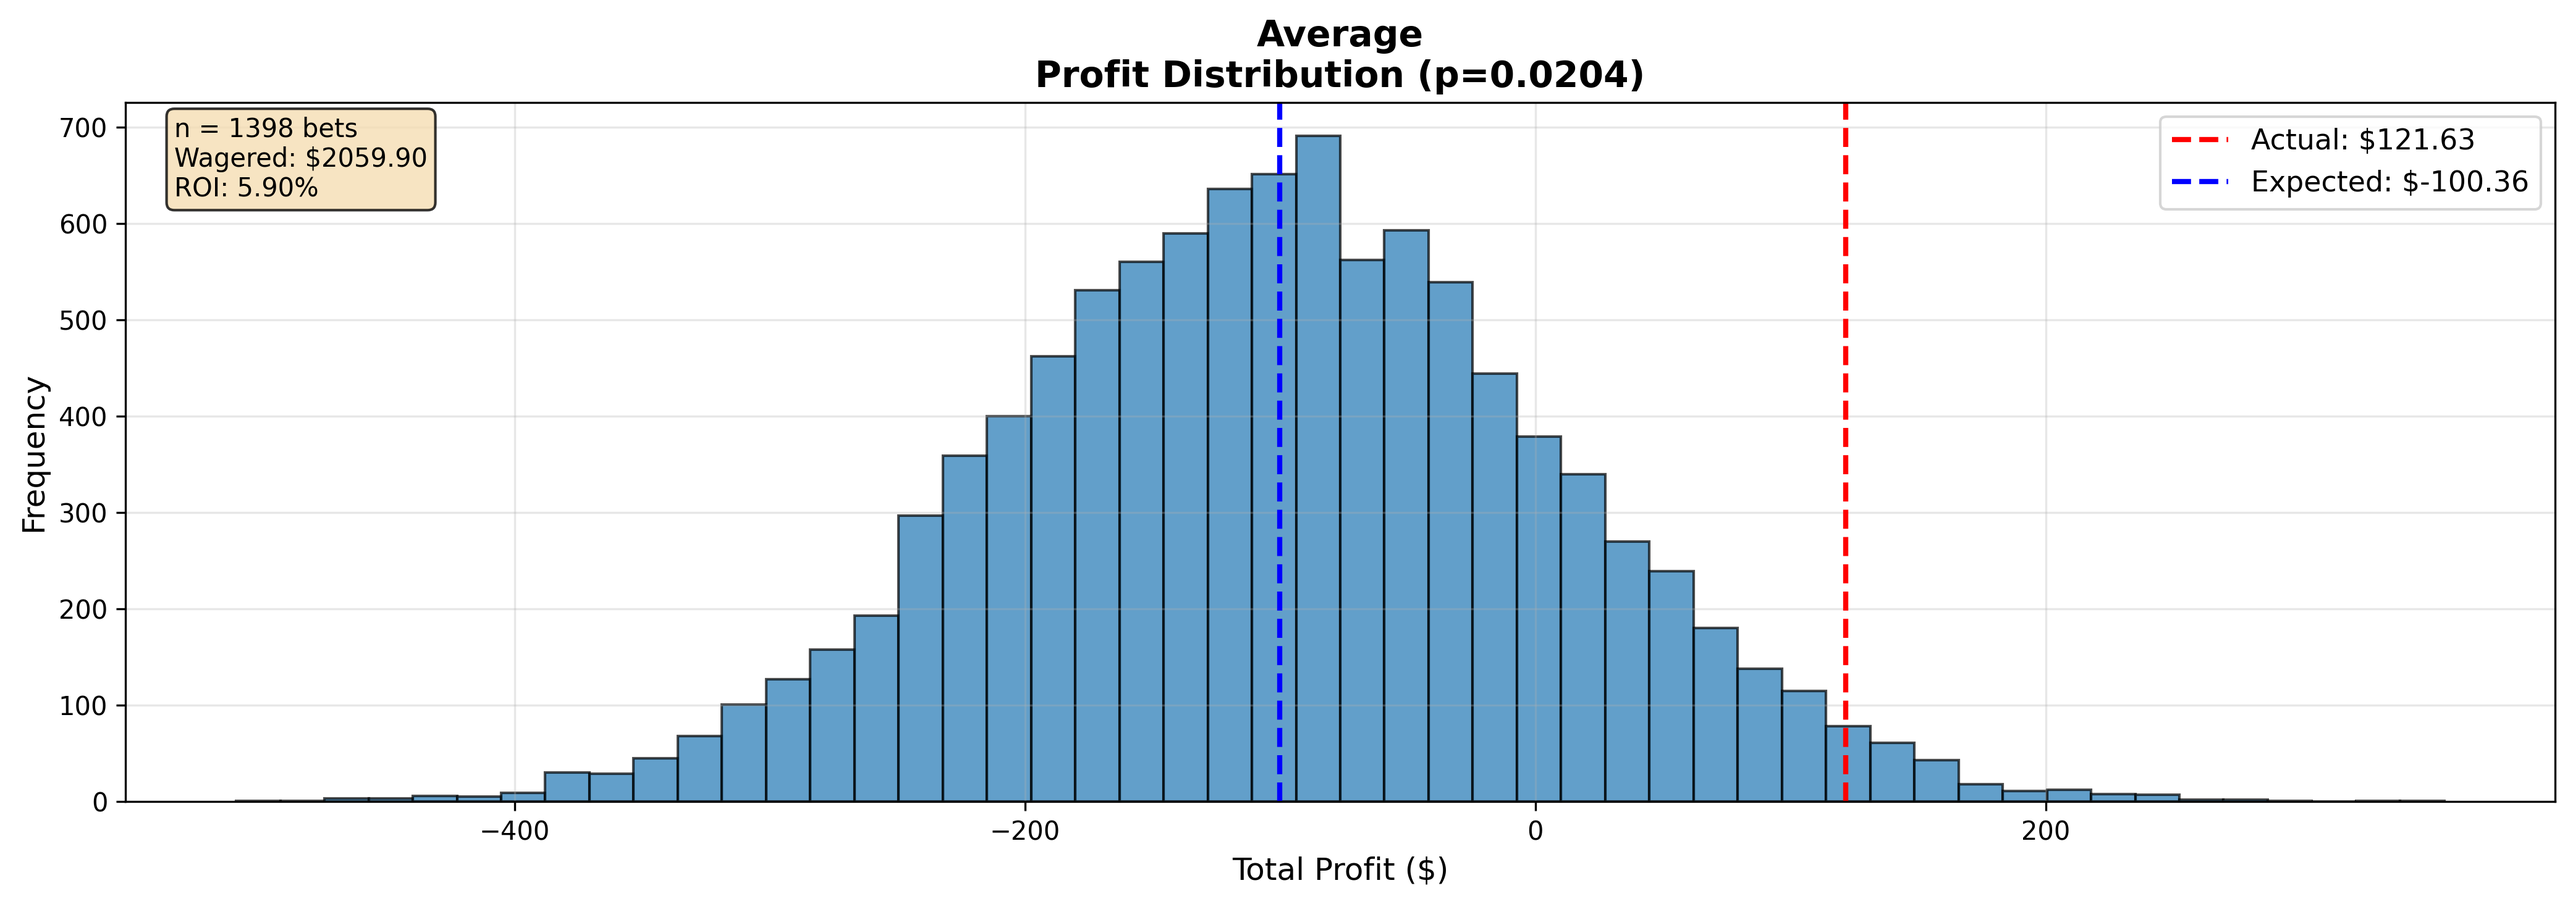
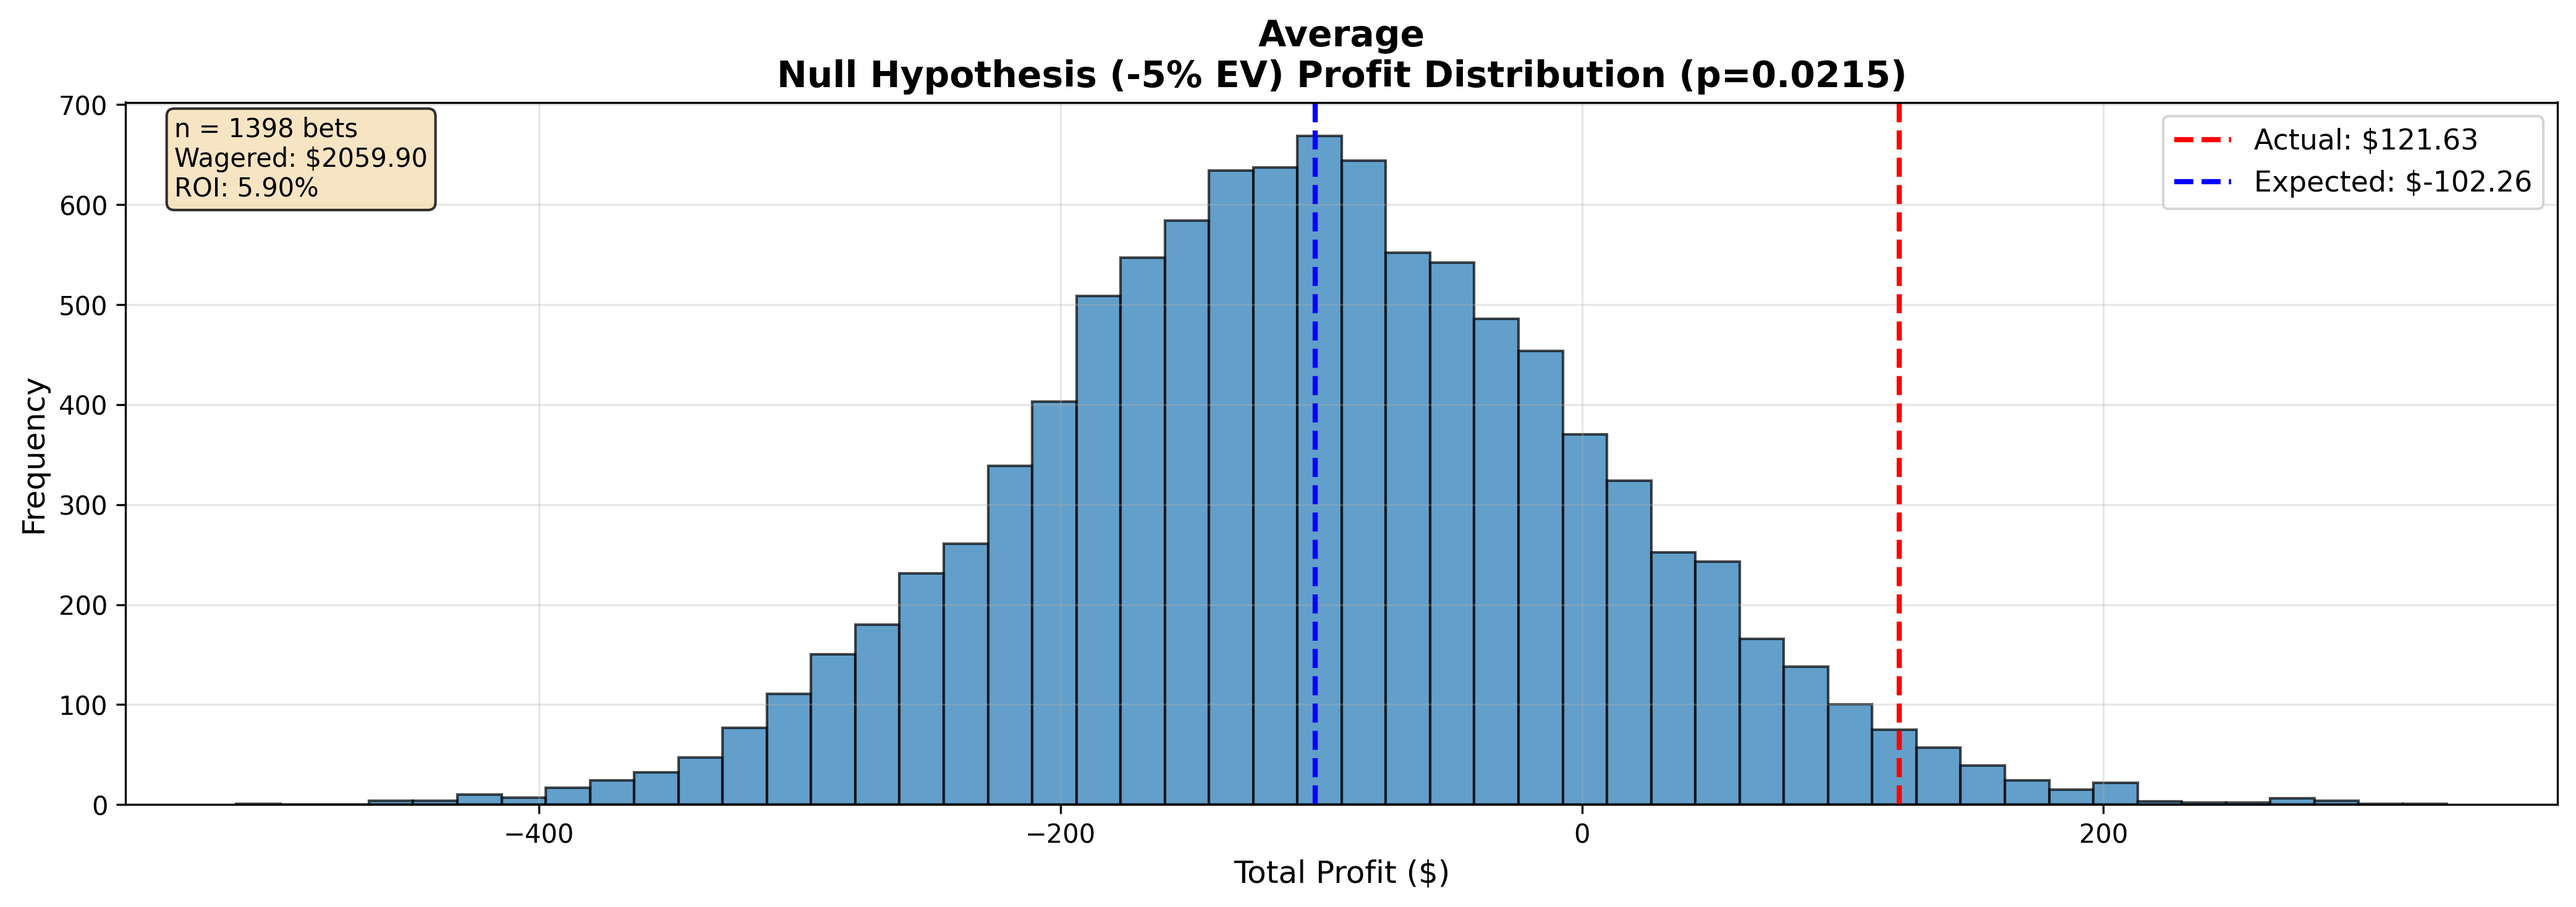
new mc chart title and seed for reproducibility

diff --git a/config/analysis_config.py b/config/analysis_config.py
@@ -34,7 +34,7 @@ NULL_EV = -0.05  # -5% EV (typical vig)
 N_SIMULATIONS = 10000
 
 # Random seed for reproducibility (None = random seed each run)
-RANDOM_SEED = None
+RANDOM_SEED = 1
 
 # Significance levels for hypothesis testing
 ALPHA_LEVELS = [0.05, 0.01]  # 5% and 1% significance
